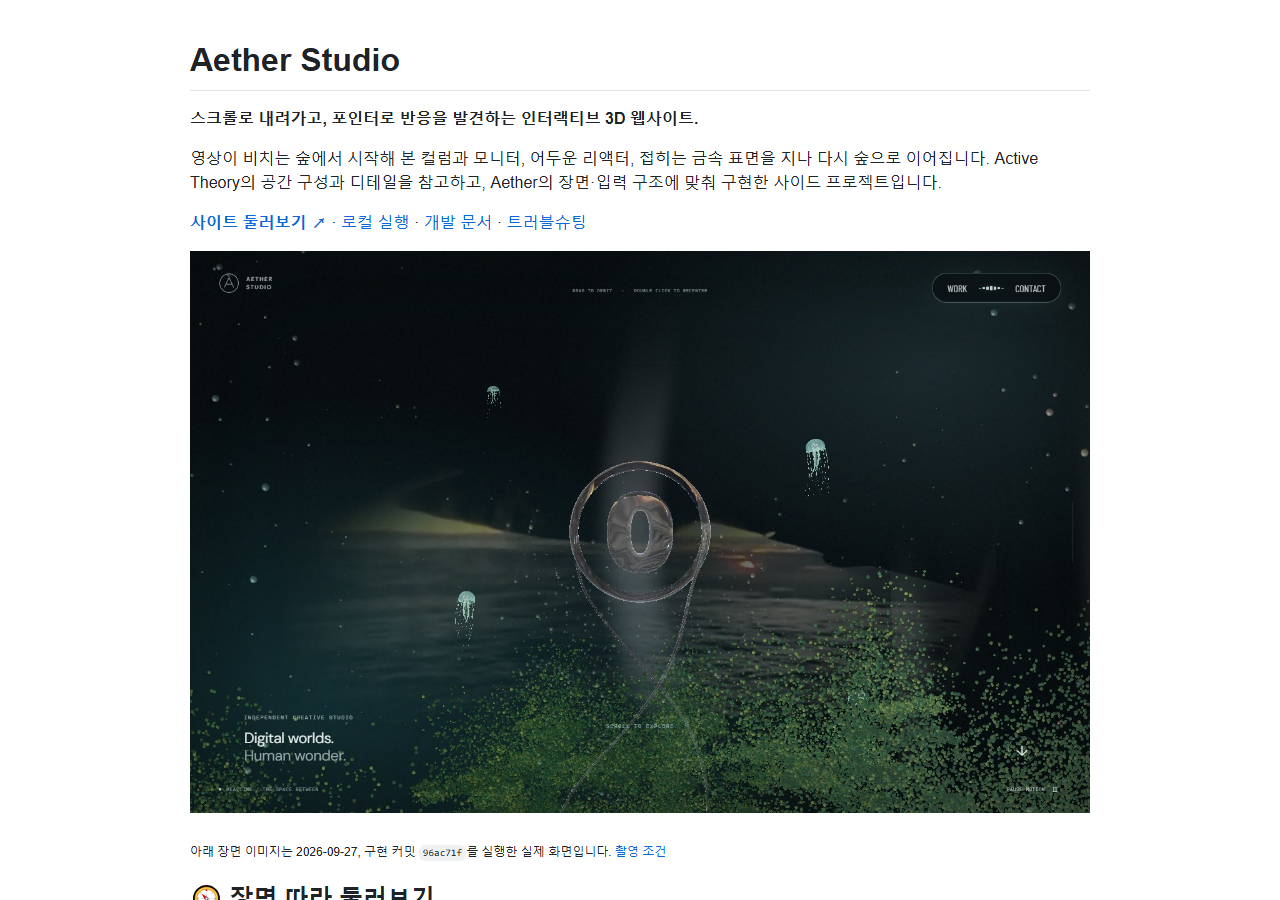
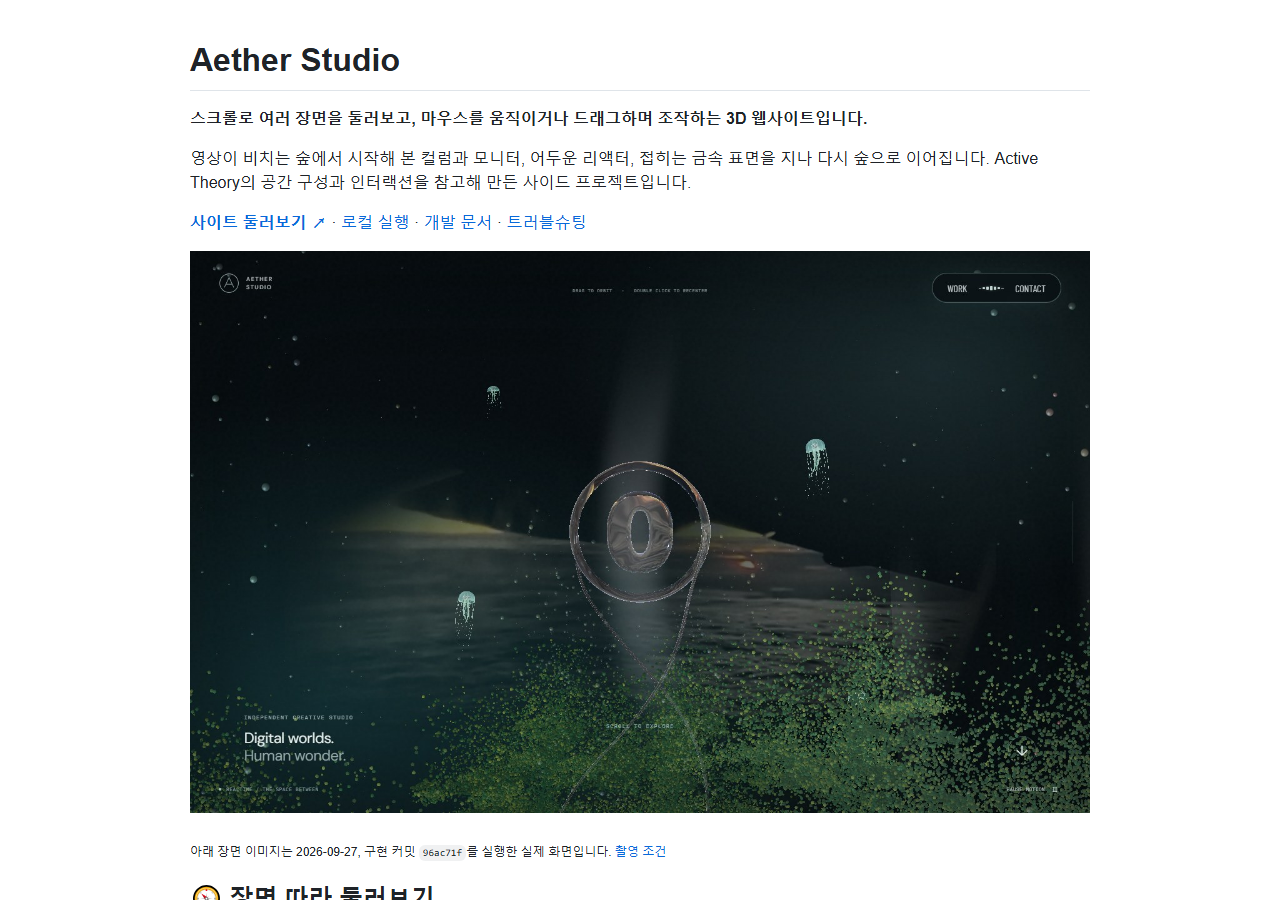
docs: 어색한 안내 문구를 구체적인 설명으로 수정

Changed region(s): [[0.1875, 0.1244, 0.6875, 0.1556], [0.2812, 0.1867, 0.7188, 0.2178]]

diff --git a/README.md b/README.md
@@ -1,8 +1,8 @@
 # Aether Studio
 
-**스크롤로 내려가고, 포인터로 반응을 발견하는 인터랙티브 3D 웹사이트.**
+**스크롤로 여러 장면을 둘러보고, 마우스를 움직이거나 드래그하며 조작하는 3D 웹사이트입니다.**
 
-영상이 비치는 숲에서 시작해 본 컬럼과 모니터, 어두운 리액터, 접히는 금속 표면을 지나 다시 숲으로 이어집니다. Active Theory의 공간 구성과 디테일을 참고하고, Aether의 장면·입력 구조에 맞춰 구현한 사이드 프로젝트입니다.
+영상이 비치는 숲에서 시작해 본 컬럼과 모니터, 어두운 리액터, 접히는 금속 표면을 지나 다시 숲으로 이어집니다. Active Theory의 공간 구성과 인터랙션을 참고해 만든 사이드 프로젝트입니다.
 
 **[사이트 둘러보기 ↗](https://aether-studio-nu.vercel.app/)** · [로컬 실행](#로컬-실행) · [개발 문서](docs/README.md) · [트러블슈팅](docs/troubleshooting/current-guide.md)
 
@@ -14,13 +14,13 @@
 
 **상단 포레스트 → 문구와 유리 링 → 본 컬럼·모니터 → 리액터 챔버 → 스케일 패널 → 하단 포레스트**
 
-처음에는 천천히 내려가며 장면의 깊이와 빛을 보고, 돌아올 때는 포인터를 움직여 보세요. 위로 스크롤하면 같은 공간을 거슬러 올라갑니다.
+천천히 스크롤하며 장면을 둘러보세요. 각 구간에서 마우스를 움직이면 입자나 표면이 반응합니다. 위로 스크롤하면 같은 공간을 거슬러 올라갑니다.
 
 ### 01 · 빛이 스며드는 포레스트
 
-숲의 영상은 공간 안에 놓인 곡면 스크린입니다. 그 영상의 색이 주변 입자와 유리 링에도 비칩니다. 앞쪽의 가지·잎, 떠다니는 벨 크리처, 링에 연결된 리본 트레일이 서로 다른 깊이를 만듭니다.
+숲의 영상은 공간 안에 놓인 곡면 스크린입니다. 영상의 색이 주변 입자와 유리 링에도 비칩니다. 가지와 잎, 벨 크리처, 링에 연결된 리본 트레일은 화면 앞뒤로 떨어져 배치되어 있습니다.
 
-**발견할 디테일:** 빈 공간을 드래그하면 전경이 회전하고 뒤의 영상은 제자리에 남습니다. 포인터를 움직이면 잎·입자가 반응하고 빛의 잔광이 뒤를 따릅니다.
+빈 공간을 드래그하면 앞쪽 오브젝트가 회전하고 뒤의 영상은 제자리에 남습니다. 마우스를 움직이면 잎과 입자가 반응하고, 움직인 경로에 빛의 잔광이 남습니다.
 
 ### 02 · 유리 뒤로 흐르는 문구
 
@@ -34,19 +34,19 @@
 
 관절 모양의 본 컬럼 주위를 꽃 입자와 유리 모니터가 감쌉니다. 스크롤을 내리면 컬럼·꽃·모니터가 함께 회전하고, 체인은 자체 경로를 따라 내려옵니다. 멀리 있는 입자 띠는 천천히 계속 움직입니다.
 
-**직접 해보기:** 모니터에 포인터를 올리면 화면이 바깥으로 조금 나오고, 클릭하면 프로젝트 상세가 열립니다. 좌하단 안개는 포인터가 지나간 자리를 잠시 드러냅니다. 모니터 선택은 상단 **Work**에서도 가능합니다.
+모니터에 포인터를 올리면 화면이 바깥으로 조금 나오고, 클릭하면 프로젝트 상세가 열립니다. 좌하단 안개는 포인터가 지나간 자리를 잠시 드러냅니다. 모니터 선택은 상단 **Work**에서도 가능합니다.
 
-### 04 · 리액터 챔버의 깊이
+### 04 · 리액터 챔버
 
 ![O 입자와 금속 장치, 수면이 있는 리액터 챔버](docs/images/explore-2026-09-27/reactor.jpg)
 
-금속 장치 안으로 O 입자가 모이고, 주변에는 수면과 잔해, 빛이 놓입니다. 포인터 주변의 O 입자는 흐트러졌다가 돌아옵니다. 챔버의 어두운 벽과 영상 조명, 수면 반사가 한 공간의 깊이를 만듭니다.
+금속 장치 안으로 O 입자가 모입니다. 주변에는 수면과 잔해가 있고, 조명이 비칩니다. 포인터 주변의 O 입자는 흐트러졌다가 돌아옵니다. 어두운 벽에는 영상 조명이 비치고, 수면에는 주변 장면이 반사됩니다.
 
 ### 05 · 접히는 금속, 다시 나타나는 숲
 
 | 스케일 패널 | 하단 포레스트 |
 | --- | --- |
-| ![중앙 O와 육각 금속 타일](docs/images/explore-2026-09-27/scales.jpg) | ![여정 끝의 숲과 유리 링](docs/images/explore-2026-09-27/lower-forest.jpg) |
+| ![중앙 O와 육각 금속 타일](docs/images/explore-2026-09-27/scales.jpg) | ![하단 포레스트와 유리 링](docs/images/explore-2026-09-27/lower-forest.jpg) |
 
 스케일 패널의 O는 타일의 높이·기울기·반사 차이로 나타납니다. 주기적인 파동과 포인터 반응이 금속 표면을 접었다 펼칩니다. 더 내려가면 사선 경계를 따라 하단 포레스트가 들어오고, 다시 드래그로 공간을 둘러볼 수 있습니다.
 
@@ -61,7 +61,7 @@
 | 모니터 클릭 / Work 선택 | 프로젝트 상세. 닫기 버튼 또는 Escape로 복귀합니다. |
 | 모션·사운드 버튼 | 모션 일시정지·재개. 사운드는 직접 켜야 재생됩니다. 운영체제 모션 축소 설정도 따릅니다. |
 
-작은 화면과 소프트웨어 렌더러에는 별도 품질 예산을 적용합니다. 모바일 화면 검사는 Chromium 에뮬레이션이며 Safari/iOS 실기기와 저사양 기기의 장시간 실행 검증은 남아 있습니다. WebGL을 사용할 수 없으면 CSS 배경과 본문·탐색을 유지합니다.
+작은 화면과 소프트웨어 렌더러에서는 입자 수와 반사 계산량 등을 줄입니다. 모바일 화면 검사는 Chromium 에뮬레이션이며 Safari/iOS 실기기와 저사양 기기의 장시간 실행 검증은 남아 있습니다. WebGL을 사용할 수 없으면 CSS 배경과 본문·탐색을 유지합니다.
 
 </details>
 
@@ -81,7 +81,7 @@ npm run dev
 > [!NOTE]
 > 첫 화면 전에 GPU 자원을 준비하므로 기기에 따라 진입에 시간이 걸립니다. 로딩 숫자는 준비 단계의 진행 표시이며 다운로드한 바이트의 비율이 아닙니다.
 
-## 🛠 코드의 큰 그림
+## 🛠 코드 구조
 
 React는 메뉴·프로젝트 상세 같은 **웹 화면**을, Three.js는 **3D 장면**을 담당합니다. React Three Fiber를 사용하지 않으며 `Scene.tsx`에서 Three.js를 직접 연결합니다.
 
@@ -96,7 +96,7 @@ flowchart TD
   Scene --> Output[Three.js · 화면 출력]
 ```
 
-<sub>개념도 — 세부 함수 호출을 줄인 책임 흐름입니다.</sub>
+<sub>개념도 — 주요 모듈의 역할과 연결을 간략히 나타냈습니다.</sub>
 
 스크롤은 **어디에 있는지**, 시간은 **무엇이 계속 움직이는지**, 포인터는 **어디가 반응하는지**를 결정합니다. 따라서 같은 곳으로 돌아오면 구조의 배치는 복원되지만 영상까지 되감기지는 않습니다.
 

diff --git a/docs/troubleshooting/current-guide.md b/docs/troubleshooting/current-guide.md
@@ -34,7 +34,7 @@ flowchart TD
 
 <sub>개념도 — 실제 준비 순서. 각 상자의 크기는 소요 시간을 뜻하지 않는다.</sub>
 
-**쉽게 이해하기:** 그림을 그리는 도구와 재료를 미리 준비해 두면 첫 장면 전환은 편해진다. 대신 입장 전에 기다릴 일이 늘어난다. 준비를 뒤로 미루면 초기 대기는 줄 수 있지만, 그 비용이 첫 스크롤로 옮겨 갈 수 있다.
+첫 화면을 띄우기 전에 GPU 자원을 준비하면 처음 스크롤할 때 생기는 지연을 줄일 수 있다. 그만큼 첫 화면이 나타나기까지 기다리는 시간은 늘 수 있다. 준비를 뒤로 미루면 첫 화면은 빨리 나타날 수 있지만, 처음 해당 장면에 도달했을 때 끊길 수 있다.
 
 현재 [ScenePreparation](../../src/ScenePreparation.ts)은 텍스처 업로드, 선형 half-float 출력 경로의 `compileAsync`, 2×2 타깃의 준비 렌더, 화면 출력 경로 컴파일을 수행한다. 이 함수는 `VideoTexture`를 정적 업로드 대상에서 제외한다. 영상 첫 프레임 준비는 별도로 봐야 한다.
 
@@ -75,7 +75,7 @@ console.table({
            → ColumnFollow → 컬럼·꽃·모니터의 추종 진행률
 ```
 
-**먼저 재현:** 같은 진행률로 내림·올림을 실행하고 정착을 기다린다. 카메라와 구조를 비교할 때 영상·시간 기반 입자를 별도로 취급한다. 테스트에서는 [scrollToProgress](../../tests/scroll.ts)를 사용한다.
+아래로 스크롤할 때와 위로 돌아올 때 같은 진행률에서 멈추고, 카메라와 컬럼의 움직임이 멎은 뒤 비교한다. 카메라와 구조를 비교할 때 영상·시간 기반 입자를 별도로 취급한다. 테스트에서는 [scrollToProgress](../../tests/scroll.ts)를 사용한다.
 
 | 구분 | 의미 | 예 |
 | --- | --- | --- |
@@ -113,7 +113,7 @@ flowchart TD
 
 <sub>개념도 — 진단 순서이며 자동 원인 판정은 아니다.</sub>
 
-최근 천장 문제는 진입 중 기울기 보간에 해당했다. `.735~.775`에서 각도가 바뀌던 코드를 제거하고 생성 시의 `.24rad`를 유지했다. 이 수정은 경계선 전체를 다시 설계한 것이 아니다. [같은 위치의 실제 전후 화면](../verification/ceiling-entry-2026-09-27.md)
+스케일 패널에 진입하는 동안 천장 각도가 바뀌어 기울어 보였다. `.735~.775`에서 각도가 바뀌던 코드를 제거하고 생성 시의 `.24rad`를 유지했다. [같은 위치의 실제 전후 화면](../verification/ceiling-entry-2026-09-27.md)
 
 검사: `scene-boundary-placement`, `water-reflection`, `scene-framing`. 반사·굴절 타깃이 다른 해상도여도 전환선 위치가 같고, 뒤의 물체를 숨긴 픽셀에 불필요한 깊이가 남지 않는지 확인한다.
 

diff --git a/docs/architecture.md b/docs/architecture.md
@@ -27,7 +27,7 @@ flowchart TD
   Capture --> Output[후처리 또는 직접 출력]
 ```
 
-<sub>개념도 — 한 프레임의 책임 흐름. 반사·굴절을 위한 추가 렌더링은 최종 출력 전에 수행한다.</sub>
+<sub>개념도 — 한 프레임을 그릴 때의 모듈 연결. 반사·굴절을 위한 추가 렌더링은 최종 출력 전에 수행한다.</sub>
 
 ## 스크롤·시간·입력의 구분
 
@@ -100,9 +100,9 @@ stateDiagram-v2
 
 작은 화면과 소프트웨어 렌더러는 입자·조각 수와 반사 계산을 줄인다. 적응형 DPR과 후처리 설정은 `Scene.tsx`에 있다. 비용을 바꿀 때는 평균 프레임 시간만 보지 말고 첫 진입과 장면이 겹치는 구간을 따로 확인한다.
 
-## 변경할 때 지켜야 할 연결
+## 변경 후 확인할 동작
 
-| 변경 | 함께 확인할 계약 | 대표 검사 |
+| 변경 | 관련 동작 | 대표 검사 |
 | --- | --- | --- |
 | 스크롤·카메라 | App과 Scene의 같은 변환, 왕복 시 위치 복원 | `scroll-timeline`, `scene-framing` |
 | 컬럼 회전 | 컬럼·꽃·모니터가 같은 추종 진행률 사용 | `column-follow`, `particle-rotation` |
@@ -116,4 +116,4 @@ stateDiagram-v2
 
 오브젝트별 factory와 `update()`·`dispose()`가 이미 존재하지만 모든 모듈의 호출 규약이 같지는 않다. `Scene.tsx`는 생성 순서·미디어·입력·카메라·캡처를, `SceneWorlds.ts`는 여러 기계 장면을 함께 조정한다. 따라서 임의의 새 씬을 설정만으로 교체하는 플러그인 구조는 아직 아니다.
 
-모니터의 형태·영상·배치는 `MonitorCatalog`로 일부 분리되어 있다. 다만 상세 영상의 선택과 2D 문구·스타일은 별도 코드에 남아 있다. 실제 수정 범위는 [개발 안내](development.md)의 연결 지도부터 확인한다.
+모니터의 형태·영상·배치는 `MonitorCatalog`로 일부 분리되어 있다. 다만 상세 영상의 선택과 2D 문구·스타일은 별도 코드에 남아 있다. 실제 수정 범위는 [개발 안내](development.md)의 작업별 수정 파일부터 확인한다.

diff --git a/docs/development.md b/docs/development.md
@@ -41,7 +41,7 @@ flowchart TD
 
 <sub>개념도 — 모니터에서 상세 화면까지의 연결.</sub>
 
-기존 `liminal` 항목을 다음처럼 바꾸면 폭·높이·곡률을 함께 시험할 수 있다. 새 항목을 중복으로 추가하는 예제가 아니다.
+기존 `liminal` 항목의 폭·높이·곡률을 아래처럼 수정해 본다.
 
 ```ts
 {
@@ -61,7 +61,7 @@ flowchart TD
 
 변경 후 호버 → 클릭 → 상세 → Escape → 원래 위치 복귀를 실행하고, 좁은 화면에서도 닫기 버튼·스크롤·포커스를 확인한다. 관련 검사는 `tests/video.spec.ts`, `tests/project-transition.spec.ts`, `tests/experience.spec.ts`에 있다.
 
-## 변경 위치 지도
+## 작업별 수정 파일
 
 | 작업 | 파일 | 함께 확인할 것 |
 | --- | --- | --- |
@@ -74,7 +74,7 @@ flowchart TD
 | 금속 타일 | [표면](../src/SceneScaleSurface.ts) · [배치](../src/ScaleStage.ts) | 정면 자세·천장·역진입 |
 | 링·리본 | [형상·재질](../src/SceneEmblem.ts) | 연결점·굴절·자원 해제 |
 
-그 밖의 장면 모듈은 [구조 문서](architecture.md)에 정리했다. 현재 장면 추가는 설정 한 줄로 끝나지 않는다. 카메라·경계·입력·미디어 수명·해제를 함께 연결해야 한다.
+그 밖의 장면 모듈은 [구조 문서](architecture.md)에 정리했다. 새 장면을 추가하려면 설정 외에 카메라·경계·입력·영상 재생과 자원 해제 코드도 수정해야 한다.
 
 ## 자산 관리
 
